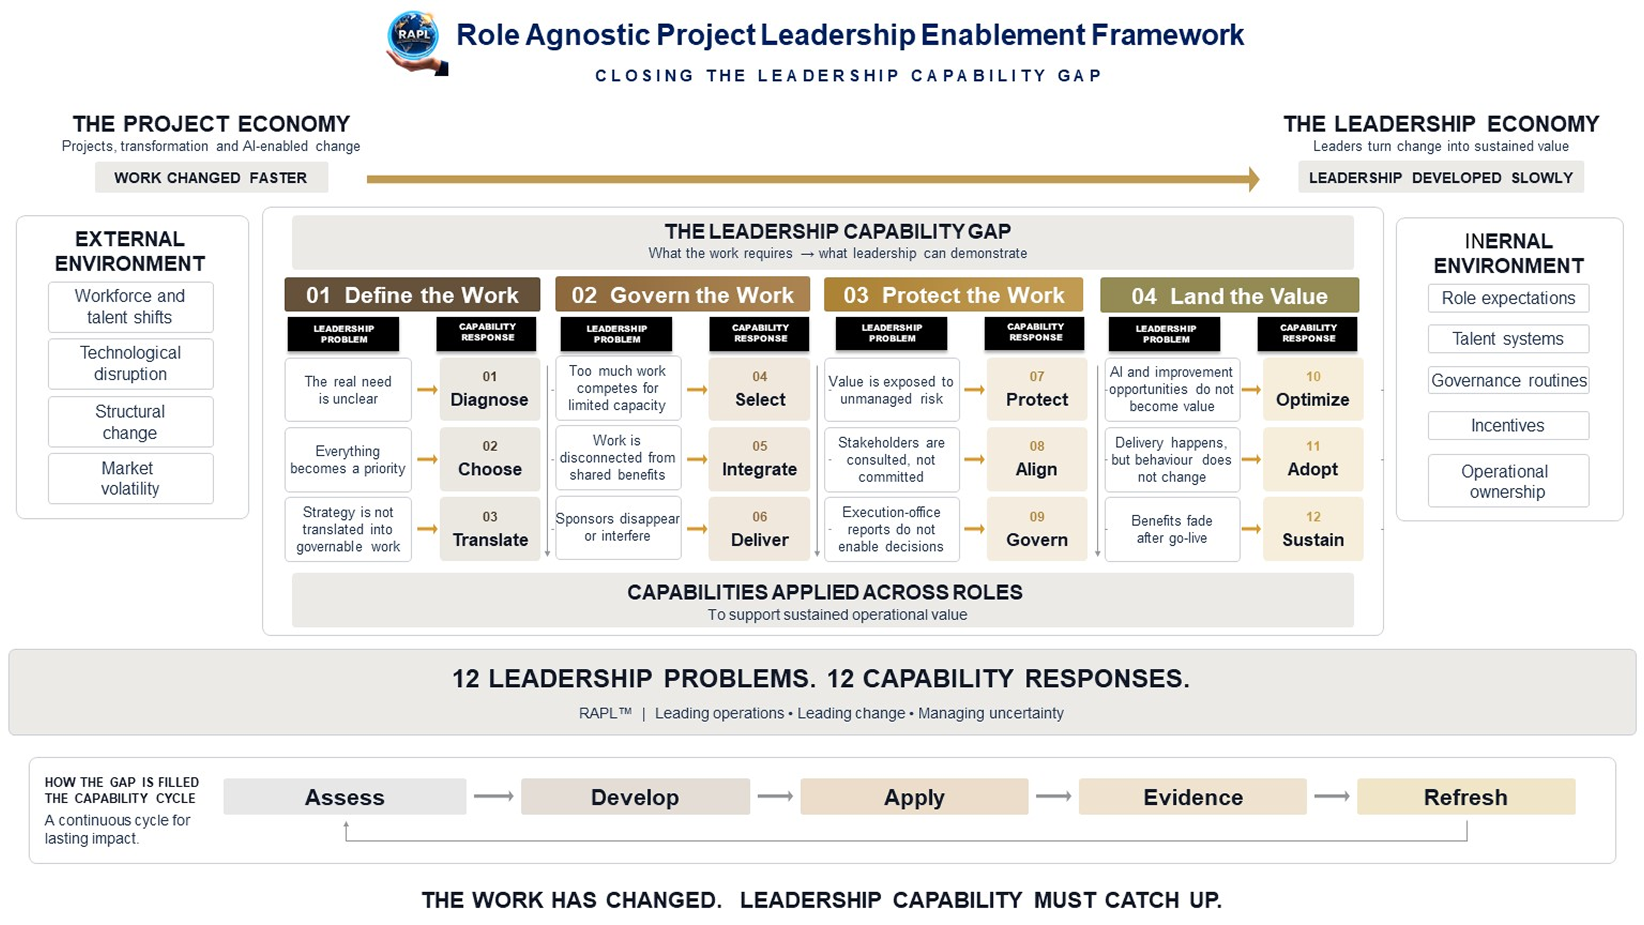
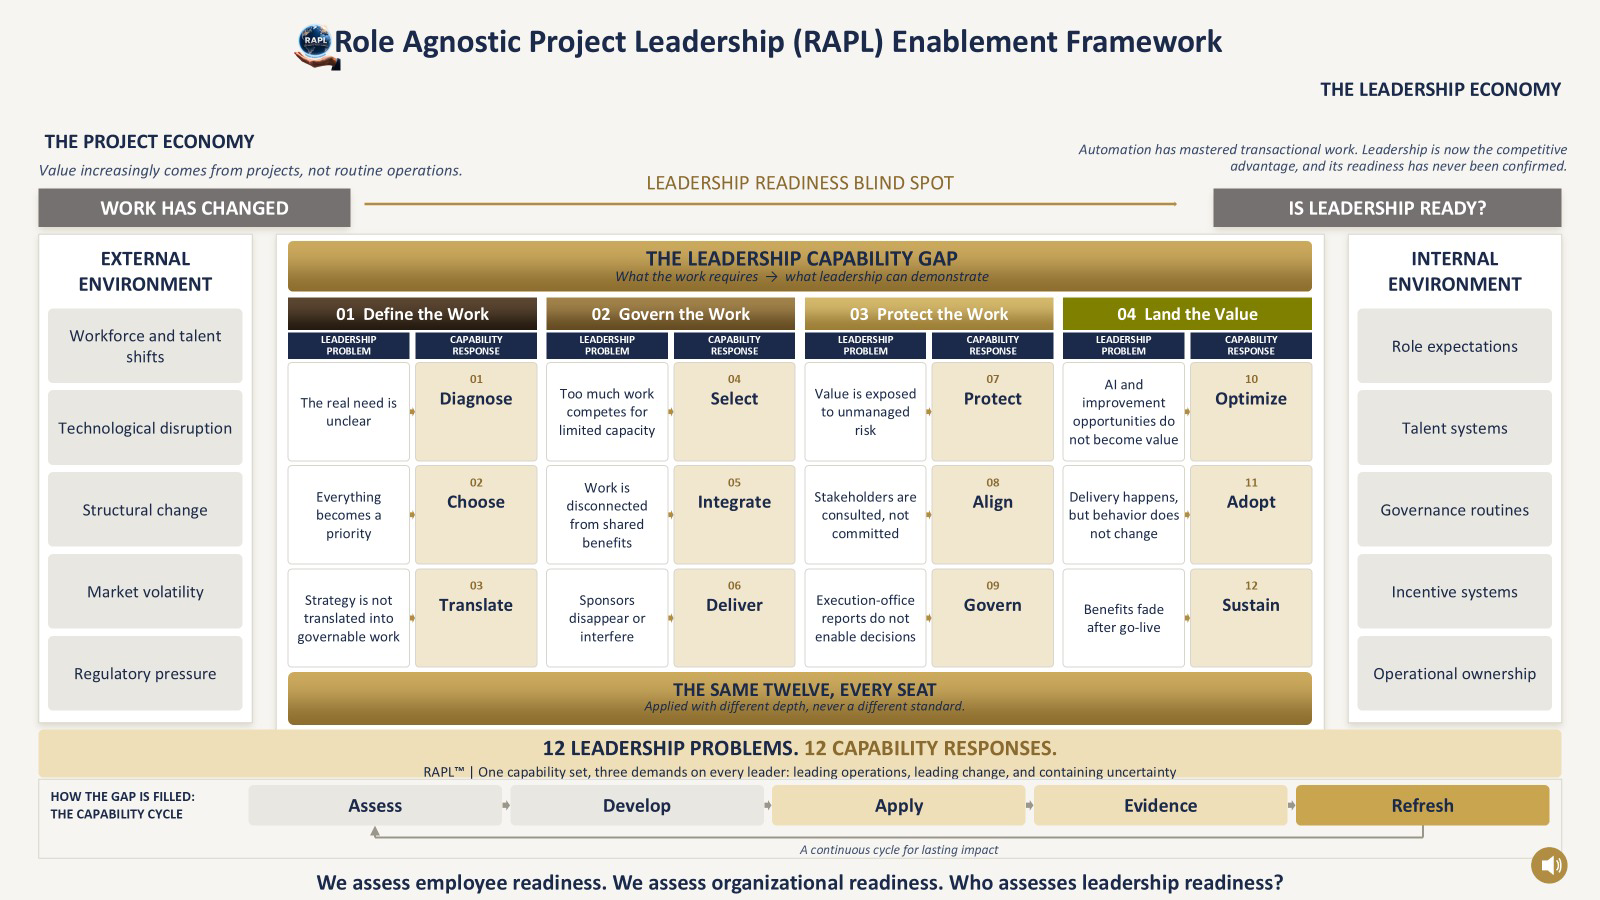
fix: update homepage framework diagram with revised content and dimensions

diff --git a/src/styles/global.css b/src/styles/global.css
@@ -3935,11 +3935,9 @@ img {
 }
 
 .framework-diagram-img {
-  /* 85.625vw = 1644px (the Figma export's own pixel width) at exactly a
-     1920px viewport, matching the source frame 1:1 at that breakpoint;
-     capped at 1644px so it doesn't keep growing past that on wider
-     screens, same pattern as this file's other Figma-fidelity vw values. */
-  width: min(85.625vw, 1644px);
+  /* 83.333vw = 1600px (the updated graphic's natural pixel width) at a
+     1920px viewport; capped at 1600px so it renders crisp without upscaling. */
+  width: min(83.333vw, 1600px);
   max-width: 100%;
   height: auto;
   object-fit: contain;
